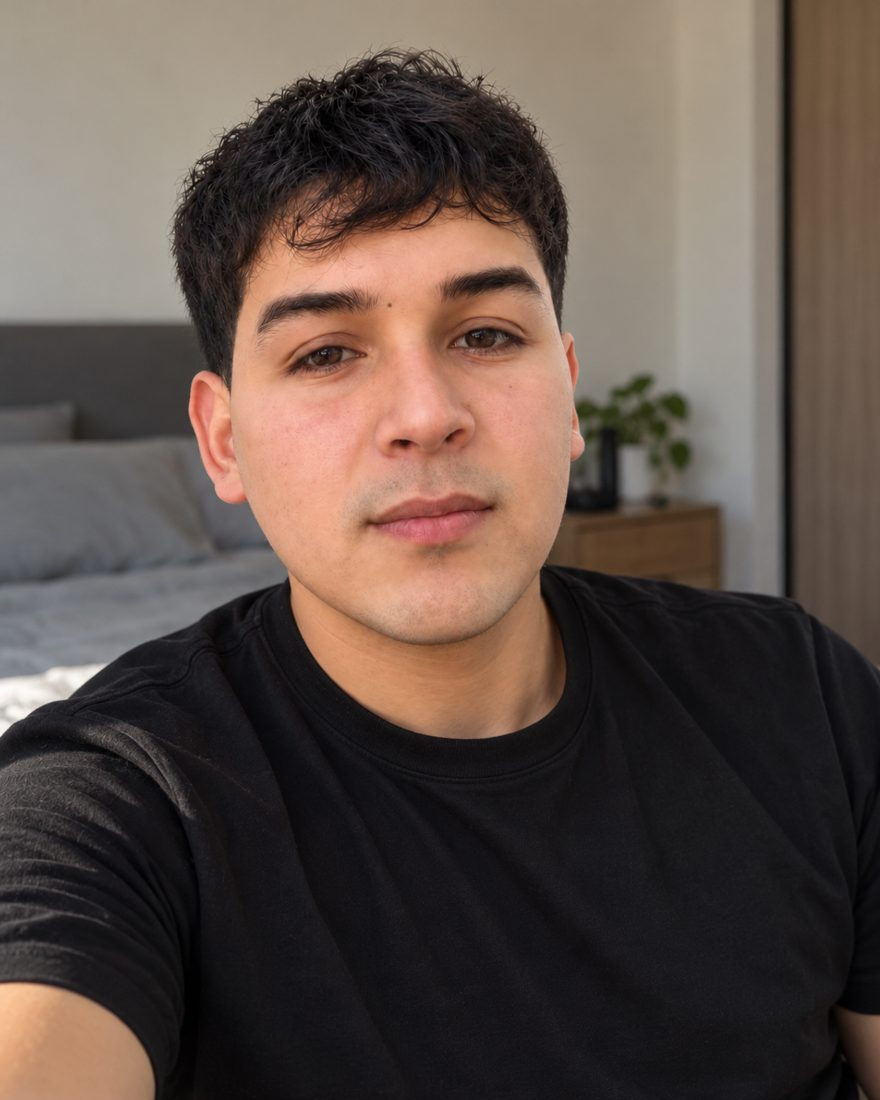
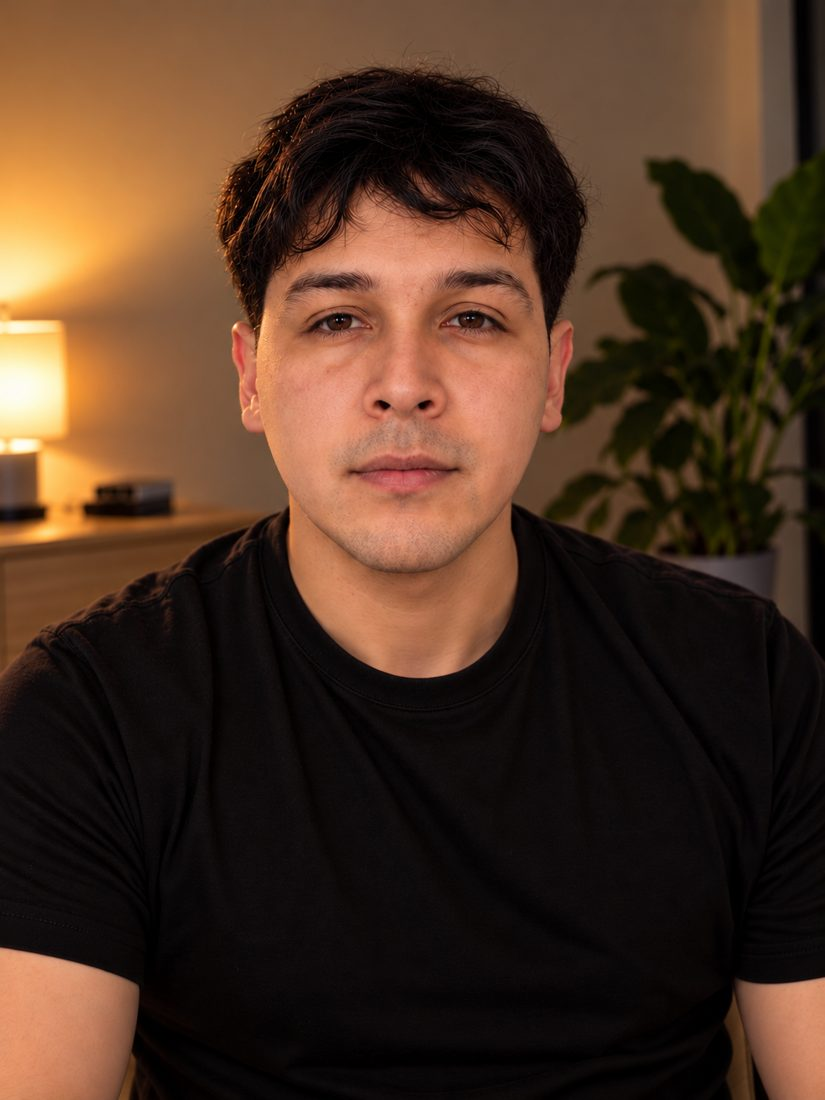
Carlos Serrano: textos problema-solución y foto nueva

diff --git a/carlos-serrano/index.html b/carlos-serrano/index.html
@@ -1,7 +1,7 @@
 <!doctype html><html lang="es-AR"><head><meta charset="utf-8"><meta name="viewport" content="width=device-width,initial-scale=1">
-<title>Carlos Ezequiel Serrano · Webs para negocios con WhatsApp, turnos y Maps</title>
-<meta name="description" content="Webs para negocios de cualquier rubro, con WhatsApp, agenda de turnos, mapa y reseñas. Pedí tu muestra gratis. Flores, CABA.">
-<meta property="og:title" content="Carlos Ezequiel Serrano · Webs para negocios"><meta property="og:description" content="Pedí tu muestra gratis: webs con WhatsApp, turnos, Maps y reseñas."><meta property="og:image" content="https://paginadeprueba-collab.github.io/carlos-serrano/og.jpg"><meta property="og:type" content="website">
+<title>Carlos Ezequiel Serrano · Webs para negocios de barrio</title>
+<meta name="description" content="Webs para negocios: datos claros, reseñas reales, turnos, WhatsApp y mapa. Muestra gratis antes de pagar. Flores, CABA.">
+<meta property="og:title" content="Carlos Ezequiel Serrano · Webs para negocios"><meta property="og:description" content="Muestra gratis con los datos de tu negocio antes de pagar."><meta property="og:image" content="https://paginadeprueba-collab.github.io/carlos-serrano/og.jpg"><meta property="og:type" content="website">
 <link rel="icon" href="favicon.svg"><meta name="theme-color" content="#14161a">
 <style>
 :root{--bg:#f7f6f3;--ink:#14161a;--mut:#5d6168;--line:#e4e1da;--acc:#1f7a5a;--gold:#b08d57}
@@ -23,41 +23,41 @@ details{background:#fff;border:1px solid var(--line);border-radius:12px;padding:
 form{display:grid;gap:12px}label{font-size:14px;font-weight:600}input{width:100%;padding:13px;border:1px solid var(--line);border-radius:10px;font:inherit;margin-top:4px;background:#fff}
 iframe{width:100%;height:260px;border:0;border-radius:16px}footer{padding:30px 0 90px;color:var(--mut);font-size:14px;border-top:1px solid var(--line)}
 .fab{position:fixed;left:16px;bottom:16px;width:58px;height:58px;border-radius:50%;background:#25d366;color:#fff;display:grid;place-items:center;box-shadow:0 8px 24px #0004;z-index:9}.fab svg{width:30px;height:30px}
-</style></head><body>
+.pb{font-size:14px;color:var(--mut);margin-bottom:6px}.pb b{color:#a0442c;font-weight:600}.card h3+p{margin-top:2px}</style></head><body>
 <header class="hero"><div class="c hg"><div>
 <p class="k">Carlos Ezequiel Serrano · Flores, CABA</p>
-<h1>Webs para negocios que reciben clientes por WhatsApp</h1>
-<p class="lead" style="margin-top:14px">Armo la web de tu negocio con botón de WhatsApp, agenda de turnos, mapa de Google y tus reseñas reales. Para cualquier rubro.</p>
-<div class="tags"><span>WhatsApp</span><span>Turnos y agenda</span><span>Google Maps</span><span>Reseñas</span></div>
-<a class="btn" href="https://wa.me/5491168713479?text=Hola%20Carlos%2C%20quiero%20pedir%20mi%20muestra%20gratis" target="_blank" rel="noopener"><svg viewBox="0 0 24 24" width="22" height="22" fill="currentColor"><path d="M12 2a10 10 0 0 0-8.6 15.1L2 22l5-1.3A10 10 0 1 0 12 2zm5.3 14.1c-.2.6-1.3 1.2-1.8 1.2-.5.1-1 .1-3.3-.8-2.8-1.1-4.5-4-4.7-4.2-.1-.2-1.1-1.5-1.1-2.9s.7-2.1 1-2.4c.3-.3.6-.3.8-.3h.6c.2 0 .4 0 .6.5l.9 2.1c.1.2.1.4 0 .5l-.4.6-.4.4c-.1.1-.3.3-.1.6.2.3.8 1.3 1.7 2.1 1.2 1 2.1 1.4 2.4 1.5.3.1.5.1.6-.1l.9-1.1c.2-.3.4-.2.6-.1l2 1c.3.1.5.2.5.3.1.1.1.6-.1 1.2z"/></svg> Pedí tu muestra gratis</a>
-</div><figure class="ph"><img src="img/carlos.jpg" alt="Carlos Ezequiel Serrano"><figcaption><b>Carlos Ezequiel Serrano</b>Te atiendo yo, de persona a persona</figcaption></figure></div></header>
-<section id="trabajos"><div class="c"><p class="k">Trabajos reales</p><h2>Webs ya publicadas</h2><p class="lead">Deslizá y abrí cualquiera: están online y funcionando.</p>
+<h1>Si te buscan y no te encuentran, o te escriben siempre lo mismo, se resuelve con una web simple</h1>
+<p class="lead" style="margin-top:14px">Hago webs para negocios de cualquier rubro con lo que el cliente necesita: qué hacés, reseñas reales, turnos, WhatsApp y cómo llegar.</p>
+<div class="tags"><span>WhatsApp con mensaje armado</span><span>Turnos con día y hora</span><span>Mapa</span><span>Reseñas reales</span></div>
+<a class="btn" href="https://wa.me/5491168713479?text=Hola%20Carlos%2C%20quiero%20ver%20una%20muestra%20de%20web%20para%20mi%20negocio" target="_blank" rel="noopener"><svg viewBox="0 0 24 24" width="22" height="22" fill="currentColor"><path d="M12 2a10 10 0 0 0-8.6 15.1L2 22l5-1.3A10 10 0 1 0 12 2zm5.3 14.1c-.2.6-1.3 1.2-1.8 1.2-.5.1-1 .1-3.3-.8-2.8-1.1-4.5-4-4.7-4.2-.1-.2-1.1-1.5-1.1-2.9s.7-2.1 1-2.4c.3-.3.6-.3.8-.3h.6c.2 0 .4 0 .6.5l.9 2.1c.1.2.1.4 0 .5l-.4.6-.4.4c-.1.1-.3.3-.1.6.2.3.8 1.3 1.7 2.1 1.2 1 2.1 1.4 2.4 1.5.3.1.5.1.6-.1l.9-1.1c.2-.3.4-.2.6-.1l2 1c.3.1.5.2.5.3.1.1.1.6-.1 1.2z"/></svg> Pedí tu muestra gratis</a>
+</div><figure class="ph"><img src="img/carlos.jpg" alt="Carlos Ezequiel Serrano"><figcaption><b>Carlos Ezequiel Serrano</b>Av. Riestra 3203, Flores</figcaption></figure></div></header>
+<section id="trabajos"><div class="c"><p class="k">Trabajos reales</p><h2>Webs publicadas</h2><p class="lead">Están online. Podés abrirlas y probar la agenda y el WhatsApp.</p>
 <div class="car"><a class="w" href="https://paginadeprueba-collab.github.io/jainer-contreras/" target="_blank" rel="noopener"><img src="img/jainer-contreras.jpg" alt="Web de Ortodoncia Jainer Contreras" loading="lazy"><span>Ortodoncia Jainer Contreras<small>Ver web ↗</small></span></a><a class="w" href="https://paginadeprueba-collab.github.io/dra-daniela-acuna/" target="_blank" rel="noopener"><img src="img/dra-daniela-acuna.jpg" alt="Web de Dra. Daniela Acuña" loading="lazy"><span>Dra. Daniela Acuña<small>Ver web ↗</small></span></a><a class="w" href="https://paginadeprueba-collab.github.io/cubides-ortodoncia/" target="_blank" rel="noopener"><img src="img/cubides-ortodoncia.jpg" alt="Web de Cubides Ortodoncia" loading="lazy"><span>Cubides Ortodoncia<small>Ver web ↗</small></span></a><a class="w" href="https://paginadeprueba-collab.github.io/white-odontologia/" target="_blank" rel="noopener"><img src="img/white-odontologia.jpg" alt="Web de White Odontología" loading="lazy"><span>White Odontología<small>Ver web ↗</small></span></a><a class="w" href="https://paginadeprueba-collab.github.io/palermo-dental/" target="_blank" rel="noopener"><img src="img/palermo-dental.jpg" alt="Web de Palermo Dental" loading="lazy"><span>Palermo Dental<small>Ver web ↗</small></span></a><a class="w" href="https://paginadeprueba-collab.github.io/dental-abasto/" target="_blank" rel="noopener"><img src="img/dental-abasto.jpg" alt="Web de Dental Abasto" loading="lazy"><span>Dental Abasto<small>Ver web ↗</small></span></a><a class="w" href="https://paginadeprueba-collab.github.io/coesp/" target="_blank" rel="noopener"><img src="img/coesp.jpg" alt="Web de COESP" loading="lazy"><span>COESP<small>Ver web ↗</small></span></a><a class="w" href="https://paginadeprueba-collab.github.io/aqua-dental/" target="_blank" rel="noopener"><img src="img/aqua-dental.jpg" alt="Web de Aqua Dental" loading="lazy"><span>Aqua Dental<small>Ver web ↗</small></span></a></div>
-<p class="note">Hasta ahora son de consultorios, pero también hago webs para negocios de cualquier rubro.</p></div></section>
-<section><div class="c"><p class="k">Cómo funciona</p><h2>En 3 pasos, sin riesgo</h2><div class="g g3">
-<div class="card"><div class="n">1</div><h3>Armo una muestra gratis</h3><p>Con los datos reales de tu negocio, para que la veas antes de decidir.</p></div>
-<div class="card"><div class="n">2</div><h3>La ajustamos juntos</h3><p>Me decís qué cambiar: textos, fotos, servicios, horarios.</p></div>
-<div class="card"><div class="n">3</div><h3>La publicamos</h3><p>Queda online con un link para compartir con tus clientes.</p></div></div></div></section>
-<section><div class="c"><p class="k">Qué incluye</p><h2>Todo lo que tu cliente necesita para escribirte</h2><ul class="inc">
-<li>Diseño pensado para celular</li><li>Botón de WhatsApp siempre visible</li><li>Mapa de Google para llegar</li><li>Tus reseñas reales</li><li>Agenda de turnos que llega a tu WhatsApp</li><li>Link corto para compartir</li><li>Dominio propio (opcional)</li></ul></div></section>
-<section class="dark"><div class="c"><p class="k">Garantías</p><h2>Trabajás con alguien que da la cara</h2><div class="g g3">
-<div class="card"><h3>Datos reales</h3><p>Soy Carlos Ezequiel Serrano, estoy en Av. Riestra 3203, Flores, CABA, y me escribís directo al 11 6871-3479.</p></div>
-<div class="card"><h3>Acuerdo por escrito</h3><p>Antes de empezar dejamos por escrito qué incluye la web y los plazos.</p></div>
-<div class="card"><h3>No pagás antes de ver</h3><p>Primero ves tu muestra. Recién después decidís.</p></div></div></div></section>
+<p class="note">Hasta ahora son de consultorios. El mismo esquema sirve para otros rubros.</p></div></section>
+<section><div class="c"><p class="k">Problemas y soluciones</p><h2>Qué resuelve la web</h2><div class="g g2"><div class="card"><p class="pb"><b>Problema:</b> Te buscan en Google y aparece solo la ficha de Maps, nada, o una web vieja.</p><h3>Solución</h3><p>Una web actual con lo que hacés, dónde estás y cómo contactarte, con un link corto para compartir.</p></div><div class="card"><p class="pb"><b>Problema:</b> Contestás todo el día los mismos mensajes: precio, horarios, dirección.</p><h3>Solución</h3><p>Esos datos quedan escritos en la web. El botón de WhatsApp abre el chat con un mensaje ya armado, así te escriben con la consulta concreta.</p></div><div class="card"><p class="pb"><b>Problema:</b> Los turnos se anotan a mano y se pierden o se superponen.</p><h3>Solución</h3><p>Una agenda donde el cliente elige día y hora, y el pedido te llega por WhatsApp con esos datos.</p></div><div class="card"><p class="pb"><b>Problema:</b> Tus buenas reseñas están en Maps y casi nadie las ve.</p><h3>Solución</h3><p>Las reseñas reales se muestran en la web, a la vista de quien entra por primera vez.</p></div><div class="card"><p class="pb"><b>Problema:</b> Por Instagram no queda claro qué hacés ni cómo llegar.</p><h3>Solución</h3><p>Servicios explicados en pocas líneas, mapa y botón para abrir el recorrido en Google Maps.</p></div><div class="card"><p class="pb"><b>Problema:</b> Pagar una web sin saber cómo va a quedar.</p><h3>Solución</h3><p>Primero armo una muestra con los datos de tu negocio. La ves y después decidís.</p></div></div>
+<p class="note" style="margin-top:14px">Dominio propio opcional, si querés una dirección con el nombre de tu negocio.</p></div></section>
+<section><div class="c"><p class="k">Cómo trabajo</p><h2>Ves el resultado antes de decidir</h2><div class="g g3">
+<div class="card"><div class="n">1</div><h3>Muestra con tus datos</h3><p>Uso la información pública de tu negocio: Maps, Instagram, reseñas. No invento nada.</p></div>
+<div class="card"><div class="n">2</div><h3>Corregimos juntos</h3><p>Me marcás qué está mal o qué falta: servicios, días, fotos.</p></div>
+<div class="card"><div class="n">3</div><h3>Se publica</h3><p>Queda online con un link para poner en Instagram, WhatsApp y Maps.</p></div></div></div></section>
+<section class="dark"><div class="c"><p class="k">Antes de pagar</p><h2>Qué queda claro desde el principio</h2><div class="g g3">
+<div class="card"><h3>Quién soy</h3><p>Carlos Ezequiel Serrano. Av. Riestra 3203, Flores, CABA. WhatsApp 11 6871-3479.</p></div>
+<div class="card"><h3>Qué incluye y en qué plazo</h3><p>Lo dejamos por escrito antes de empezar.</p></div>
+<div class="card"><h3>Cuándo se paga</h3><p>No pagás nada hasta ver tu muestra.</p></div></div></div></section>
 <!-- OPINIONES DE CLIENTES: agregar acá cuando haya opiniones reales (nombre del negocio + link a su web). -->
-<section><div class="c"><p class="k">Preguntas frecuentes</p><h2>Lo que más me preguntan</h2>
-<details><summary>¿Cuánto tarda?</summary><p>Depende de cada negocio y de qué tan rápido tengamos los datos y las fotos. El plazo lo dejamos por escrito antes de empezar.</p></details>
-<details><summary>¿El dominio queda a mi nombre?</summary><p>Sí. Si elegís tener dominio propio, se registra a tu nombre.</p></details>
-<details><summary>¿Y si después quiero cambios?</summary><p>Los ajustes de la muestra los hacemos juntos antes de publicar. Los cambios posteriores los acordamos por escrito.</p></details>
+<section><div class="c"><p class="k">Preguntas frecuentes</p><h2>Dudas habituales</h2>
+<details><summary>¿Cuánto tarda?</summary><p>Depende de cuánta información haya disponible y de lo que haya que corregir. El plazo se acuerda por escrito antes de empezar.</p></details>
+<details><summary>¿El dominio queda a mi nombre?</summary><p>Sí. Si elegís dominio propio, se registra a tu nombre.</p></details>
+<details><summary>¿Qué pasa si después quiero cambios?</summary><p>Los ajustes de la muestra se hacen antes de publicar. Para cambios posteriores, acordamos por escrito cómo se manejan.</p></details>
 <details><summary>¿Cómo se paga?</summary><p>Se acuerda por escrito antes de empezar, y no pagás nada hasta ver tu muestra.</p></details></div></section>
 <section id="contacto"><div class="c"><p class="k">Contacto</p><h2>Pedí tu muestra gratis</h2><div class="g g2">
-<form id="f"><p class="lead">Completá esto y se abre WhatsApp con tus datos para mandármelos.</p>
+<form id="f"><p class="lead">Con estos tres datos alcanza para armar la muestra. Al enviar se abre WhatsApp con la información.</p>
 <label>Nombre del negocio<input id="neg" required></label><label>Rubro<input id="rub" required placeholder="Ej: peluquería, consultorio, taller"></label>
-<label>Link de Maps o Instagram<input id="lnk" placeholder="Pegá el link"></label><button class="btn" type="submit"><svg viewBox="0 0 24 24" width="22" height="22" fill="currentColor"><path d="M12 2a10 10 0 0 0-8.6 15.1L2 22l5-1.3A10 10 0 1 0 12 2zm5.3 14.1c-.2.6-1.3 1.2-1.8 1.2-.5.1-1 .1-3.3-.8-2.8-1.1-4.5-4-4.7-4.2-.1-.2-1.1-1.5-1.1-2.9s.7-2.1 1-2.4c.3-.3.6-.3.8-.3h.6c.2 0 .4 0 .6.5l.9 2.1c.1.2.1.4 0 .5l-.4.6-.4.4c-.1.1-.3.3-.1.6.2.3.8 1.3 1.7 2.1 1.2 1 2.1 1.4 2.4 1.5.3.1.5.1.6-.1l.9-1.1c.2-.3.4-.2.6-.1l2 1c.3.1.5.2.5.3.1.1.1.6-.1 1.2z"/></svg> Pedí tu muestra gratis</button></form>
+<label>Link de Maps o Instagram<input id="lnk" placeholder="Pegá el link"></label><button class="btn" type="submit"><svg viewBox="0 0 24 24" width="22" height="22" fill="currentColor"><path d="M12 2a10 10 0 0 0-8.6 15.1L2 22l5-1.3A10 10 0 1 0 12 2zm5.3 14.1c-.2.6-1.3 1.2-1.8 1.2-.5.1-1 .1-3.3-.8-2.8-1.1-4.5-4-4.7-4.2-.1-.2-1.1-1.5-1.1-2.9s.7-2.1 1-2.4c.3-.3.6-.3.8-.3h.6c.2 0 .4 0 .6.5l.9 2.1c.1.2.1.4 0 .5l-.4.6-.4.4c-.1.1-.3.3-.1.6.2.3.8 1.3 1.7 2.1 1.2 1 2.1 1.4 2.4 1.5.3.1.5.1.6-.1l.9-1.1c.2-.3.4-.2.6-.1l2 1c.3.1.5.2.5.3.1.1.1.6-.1 1.2z"/></svg> Enviar por WhatsApp</button></form>
 <div><iframe loading="lazy" title="Mapa" src="https://www.google.com/maps?q=Av.+Riestra+3203,+Flores,+CABA&output=embed"></iframe>
-<p style="margin-top:12px"><b>Av. Riestra 3203, Flores, CABA</b><br><a href="https://www.google.com/maps/search/?api=1&query=Av.+Riestra+3203,+CABA" target="_blank" rel="noopener">Abrir en Maps</a> · <a href="https://wa.me/5491168713479" target="_blank" rel="noopener">WhatsApp 11 6871-3479</a></p></div></div></div></section>
-<footer><div class="c">© 2026 Carlos Ezequiel Serrano · Webs para negocios · Flores, CABA</div></footer>
-<a class="fab" href="https://wa.me/5491168713479?text=Hola%20Carlos%2C%20quiero%20pedir%20mi%20muestra%20gratis" target="_blank" rel="noopener" aria-label="WhatsApp"><svg viewBox="0 0 24 24" width="22" height="22" fill="currentColor"><path d="M12 2a10 10 0 0 0-8.6 15.1L2 22l5-1.3A10 10 0 1 0 12 2zm5.3 14.1c-.2.6-1.3 1.2-1.8 1.2-.5.1-1 .1-3.3-.8-2.8-1.1-4.5-4-4.7-4.2-.1-.2-1.1-1.5-1.1-2.9s.7-2.1 1-2.4c.3-.3.6-.3.8-.3h.6c.2 0 .4 0 .6.5l.9 2.1c.1.2.1.4 0 .5l-.4.6-.4.4c-.1.1-.3.3-.1.6.2.3.8 1.3 1.7 2.1 1.2 1 2.1 1.4 2.4 1.5.3.1.5.1.6-.1l.9-1.1c.2-.3.4-.2.6-.1l2 1c.3.1.5.2.5.3.1.1.1.6-.1 1.2z"/></svg></a>
+<p style="margin-top:12px"><b>Av. Riestra 3203, Flores, CABA</b><br><a href="https://www.google.com/maps/search/?api=1&query=Av.+Riestra+3203,+CABA" target="_blank" rel="noopener">Cómo llegar en Maps</a> · <a href="https://wa.me/5491168713479" target="_blank" rel="noopener">WhatsApp 11 6871-3479</a></p></div></div></div></section>
+<footer><div class="c">Carlos Ezequiel Serrano · Webs para negocios · Flores, CABA</div></footer>
+<a class="fab" href="https://wa.me/5491168713479?text=Hola%20Carlos%2C%20quiero%20ver%20una%20muestra%20de%20web%20para%20mi%20negocio" target="_blank" rel="noopener" aria-label="WhatsApp"><svg viewBox="0 0 24 24" width="22" height="22" fill="currentColor"><path d="M12 2a10 10 0 0 0-8.6 15.1L2 22l5-1.3A10 10 0 1 0 12 2zm5.3 14.1c-.2.6-1.3 1.2-1.8 1.2-.5.1-1 .1-3.3-.8-2.8-1.1-4.5-4-4.7-4.2-.1-.2-1.1-1.5-1.1-2.9s.7-2.1 1-2.4c.3-.3.6-.3.8-.3h.6c.2 0 .4 0 .6.5l.9 2.1c.1.2.1.4 0 .5l-.4.6-.4.4c-.1.1-.3.3-.1.6.2.3.8 1.3 1.7 2.1 1.2 1 2.1 1.4 2.4 1.5.3.1.5.1.6-.1l.9-1.1c.2-.3.4-.2.6-.1l2 1c.3.1.5.2.5.3.1.1.1.6-.1 1.2z"/></svg></a>
 <script>document.getElementById('f').onsubmit=e=>{e.preventDefault();const v=i=>document.getElementById(i).value.trim();
-const t=`Hola Carlos, quiero pedir mi muestra gratis.\nNegocio: ${v('neg')}\nRubro: ${v('rub')}\nLink: ${v('lnk')||'-'}`;window.open('https://wa.me/5491168713479?text='+encodeURIComponent(t),'_blank')}</script>
+const t=`Hola Carlos, quiero una muestra de web.\nNegocio: ${v('neg')}\nRubro: ${v('rub')}\nLink: ${v('lnk')||'-'}`;window.open('https://wa.me/5491168713479?text='+encodeURIComponent(t),'_blank')}</script>
 </body></html>
